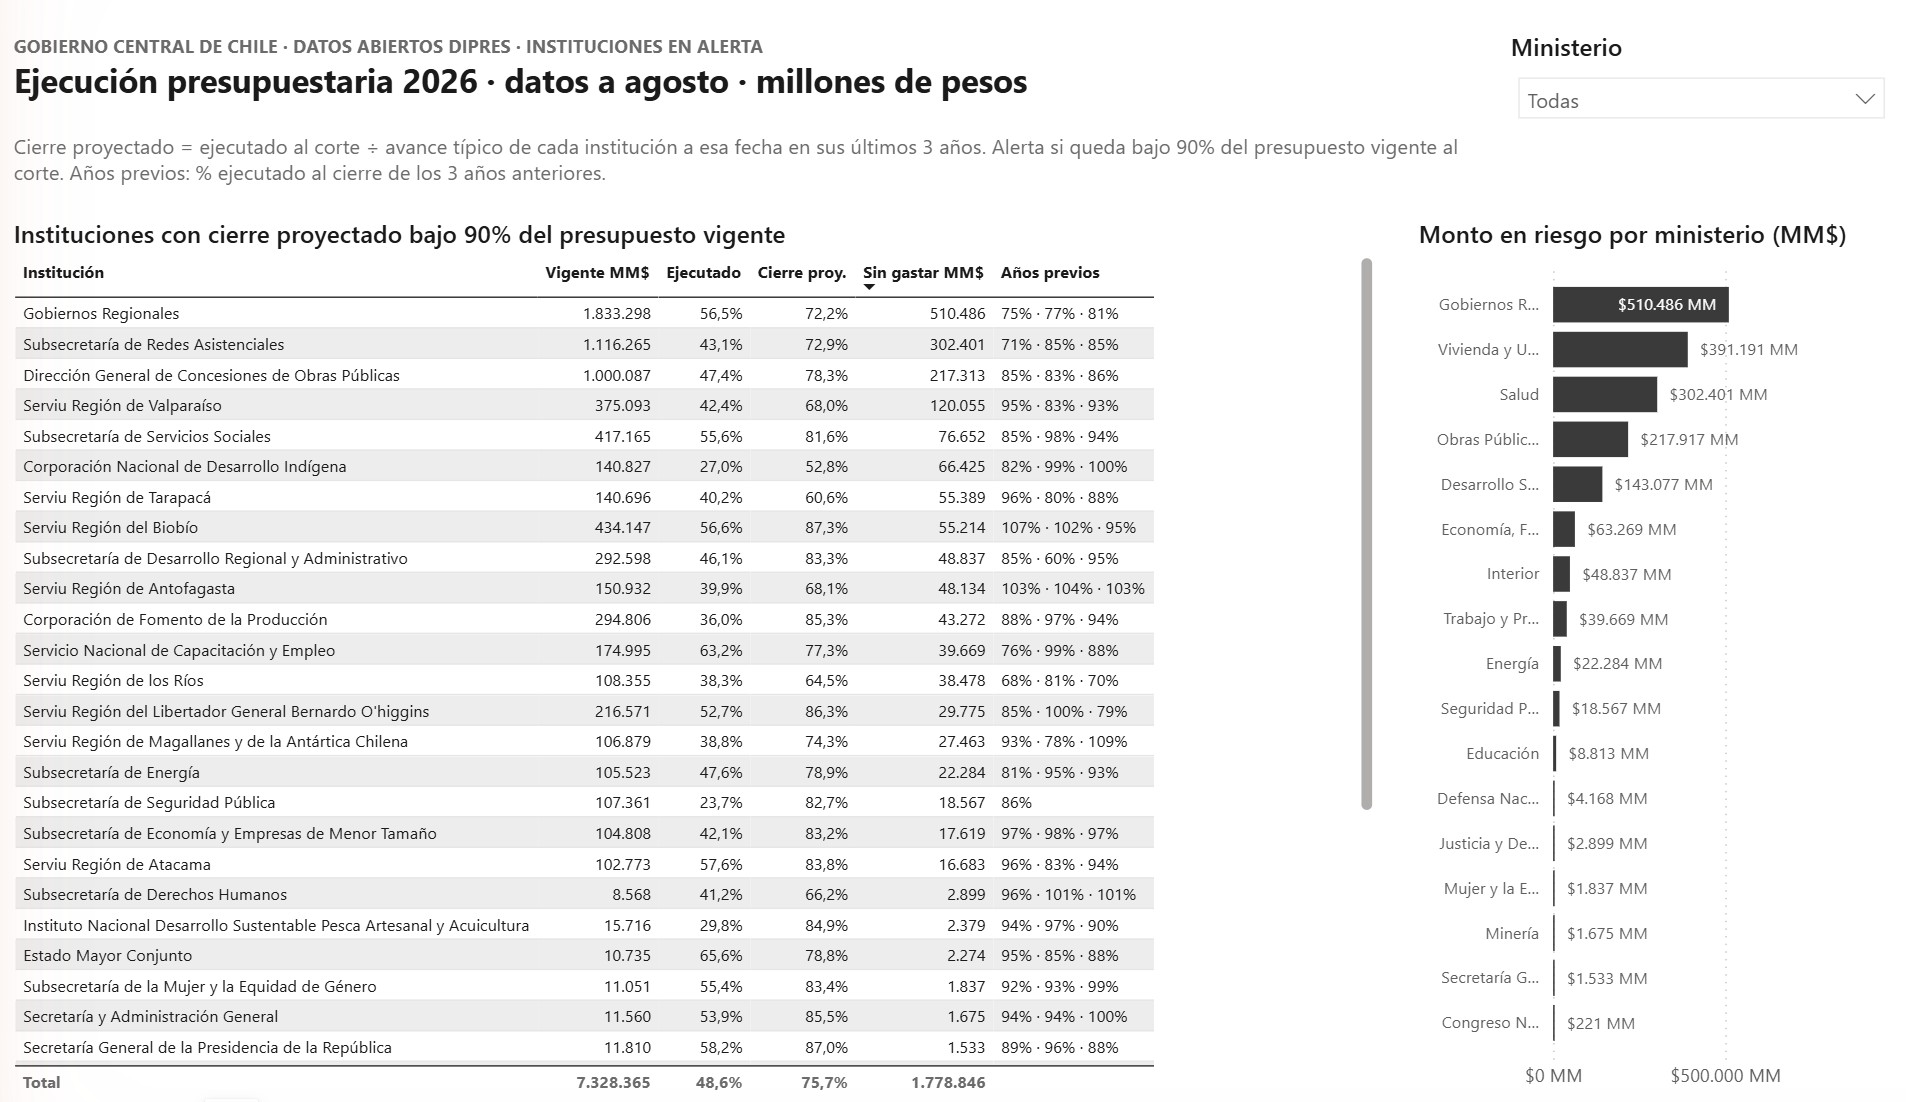
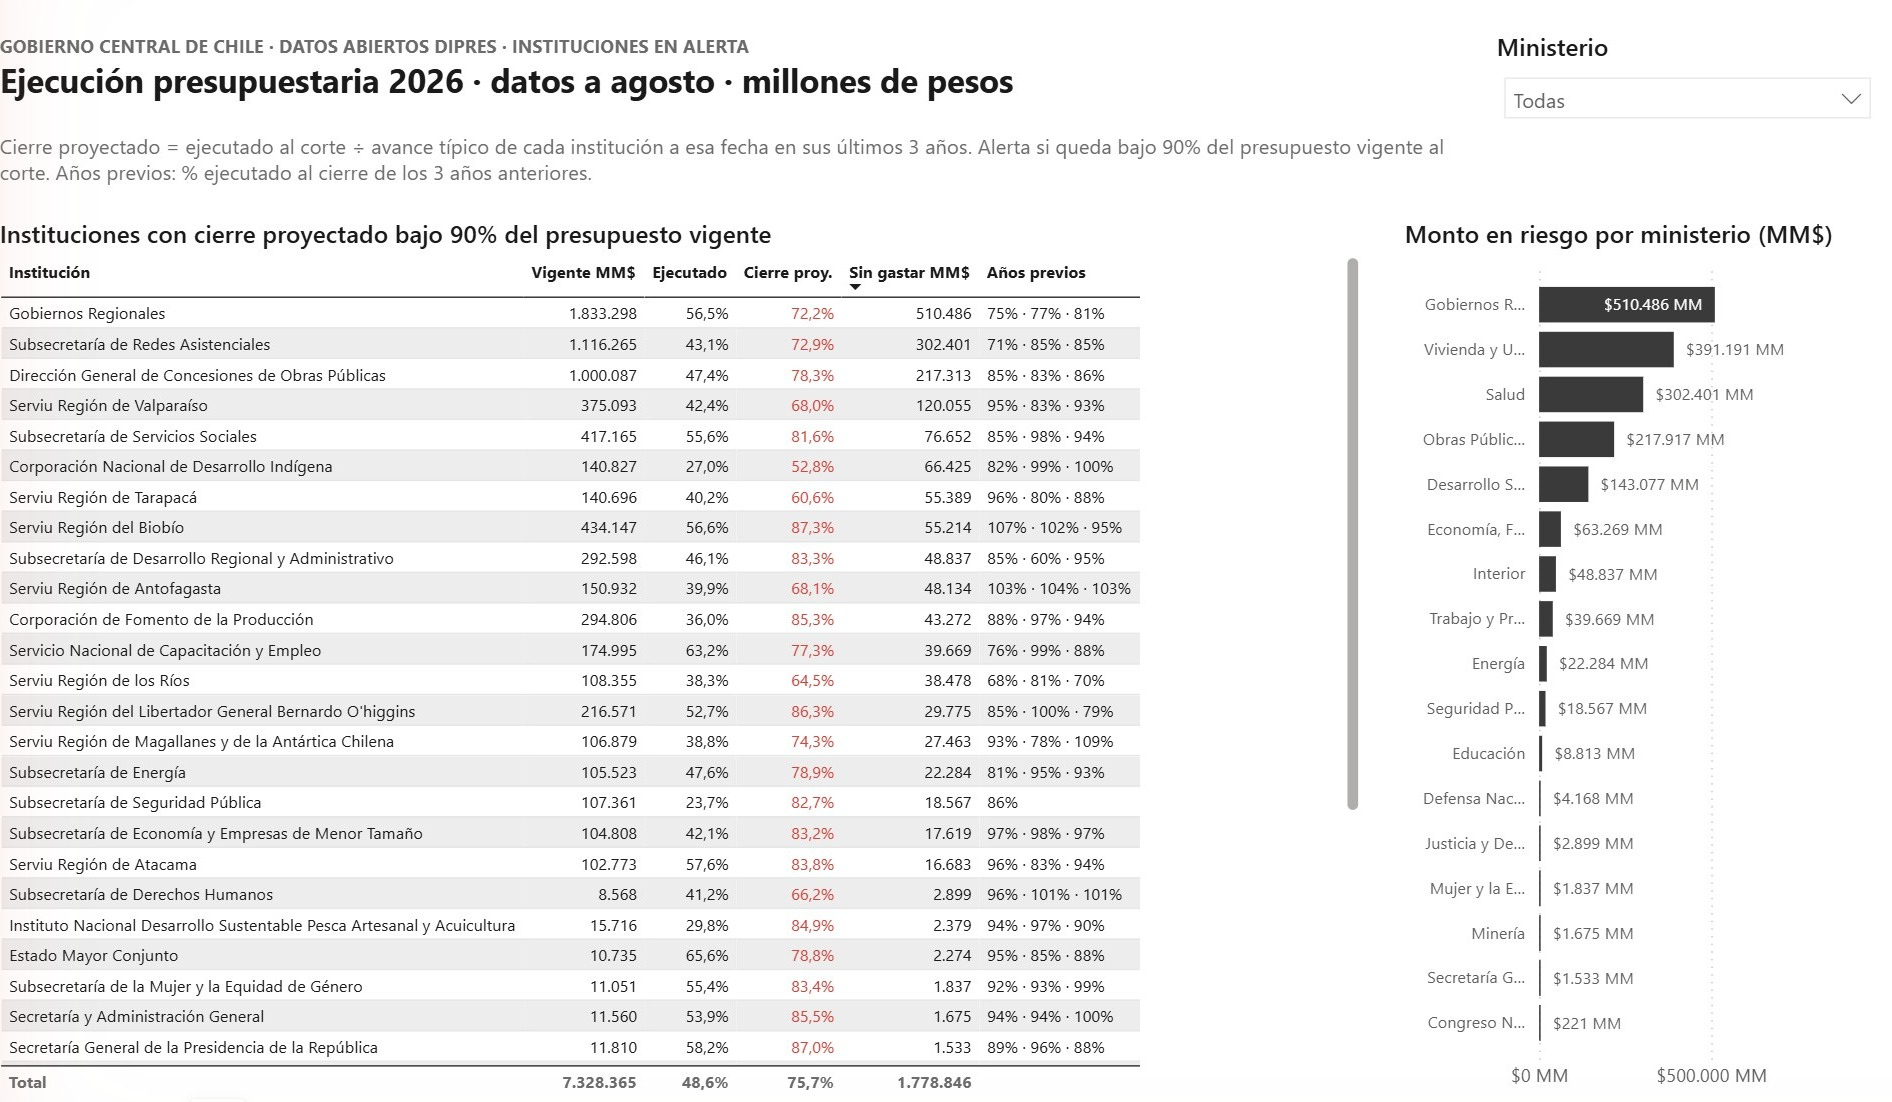
Power BI: columna de cierre proyectado en rojo en alertas y capturas finales

diff --git a/powerbi/generar_pbip.py b/powerbi/generar_pbip.py
@@ -169,6 +169,7 @@ MEDIDAS = [
     ("Monto en Riesgo (bn)", "DIVIDE([Monto en Riesgo], 1e6)", BN, "4 Proyección"),
     ("% Ejecutado Alerta", "DIVIDE(SUM(Alertas[ejec_corte]), SUM(Alertas[vig_corte]))", PCT, "4 Proyección"),
     ("Cierre Proyectado Alerta %", "DIVIDE(SUMX(Alertas, Alertas[pct_proy] * Alertas[vig_corte]), SUM(Alertas[vig_corte]))", PCT, "4 Proyección"),
+    ("Color Alerta", f'"{ROJO}"', "", "4 Proyección"),
     ("Color Cierre", f'IF([Cierre Proyectado %] < {A.UMBRAL_SUBEJECUCION}, "{ROJO}", "{TINTA}")', "", "4 Proyección"),
     # --- validación (años normales, sin pandemia)
     ("Precisión", "DIVIDE(CALCULATE(SUM(Validacion[aciertos]), Validacion[atipico] = FALSE()), "
@@ -419,8 +420,7 @@ def paginas(año, corte, n_alertas, riesgo):
                     campo("Alertas", "años_previos", nombre="Años previos")]},
         "Instituciones con cierre proyectado bajo 90% del presupuesto vigente"), tam=8)
     ordenar(t_alertas, "Alertas", "sin_ejecutar_proy", medida=False, agregado=True)
-    t_alertas["visual"]["objects"]["values"].append({
-        "properties": {"fontColor": color(ROJO)}, "selector": {"metadata": "Medidas.Cierre Proyectado Alerta %"}})
+    color_condicional(t_alertas, "Cierre Proyectado Alerta %", "Color Alerta")
     riesgo_min = ejes_limpios(colores_series(visual("gRiesgo", "clusteredBarChart", (940, 130, 320, 580),
         {"Category": [campo("Instituciones", "ministerio_corto")], "Y": [campo("Medidas", "Monto en Riesgo", True)]},
         "Monto en riesgo por ministerio (MM$)"), {"Monto en Riesgo": ROJO}), tam_cat=8)

diff --git a/README.md b/README.md
@@ -107,7 +107,7 @@ ocurre en diciembre.
   presupuesto para entrar en el análisis. Los definí antes de correr la validación y no probé otras combinaciones
   para mejorar el resultado, pero son decisiones mías.
 - **Las instituciones nuevas o reestructuradas no tienen historia propia** (por ejemplo, el Ministerio de Seguridad
-  Pública, creado en 2025): para ellas se usa el ritmo típico de todo el Estado, que es menos preciso.
+  Pública, que aparece en los datos recién desde 2025): para ellas se usa el ritmo típico de todo el Estado, que es menos preciso.
 - **2020 y 2021 se excluyen del resumen** por la pandemia (fondos de emergencia, gasto atípico). Sus resultados se
   muestran igual en la tabla de validación.
 - **Montos en pesos nominales**, sin ajustar por inflación, y sin los presupuestos en dólares (menos del 3% de los registros).
